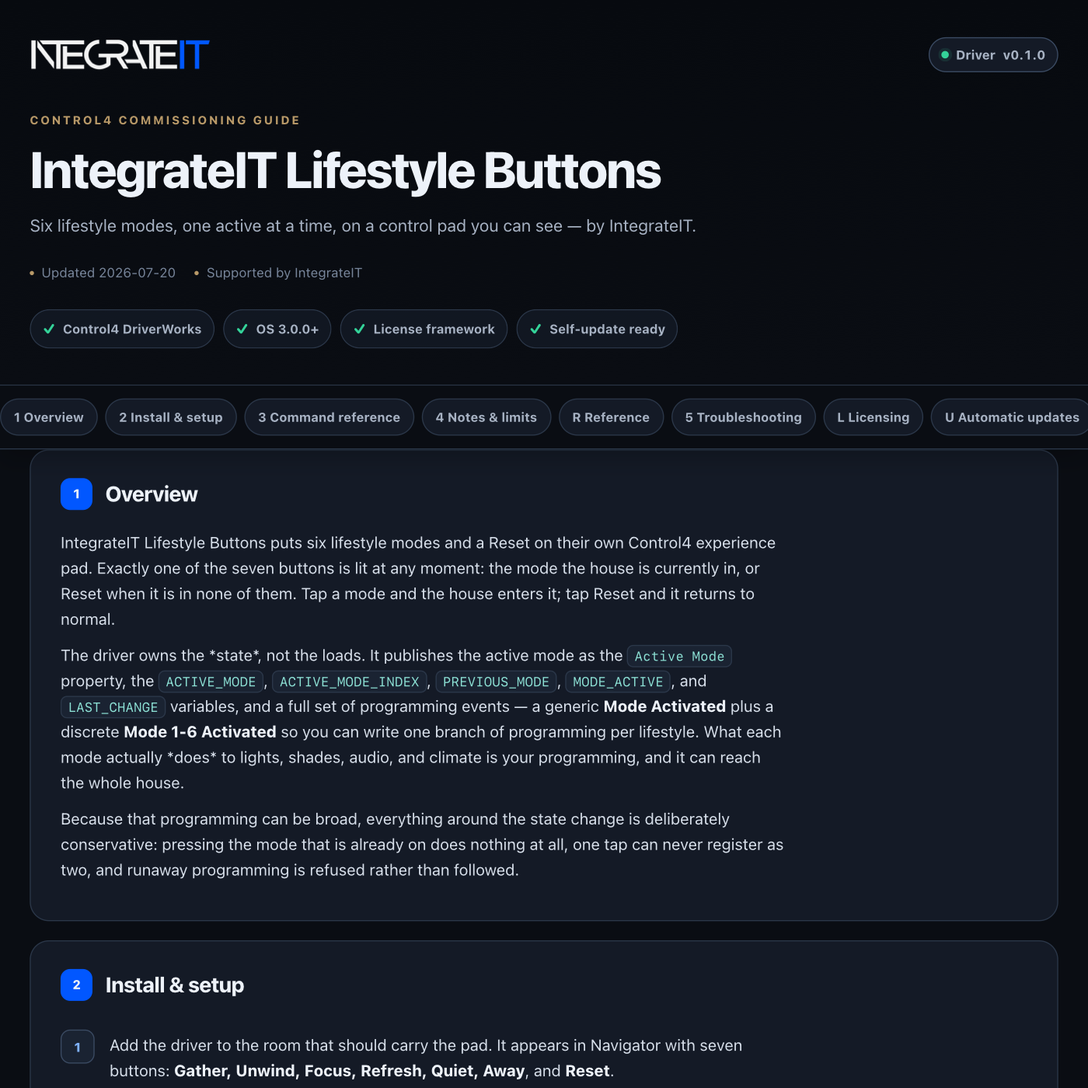
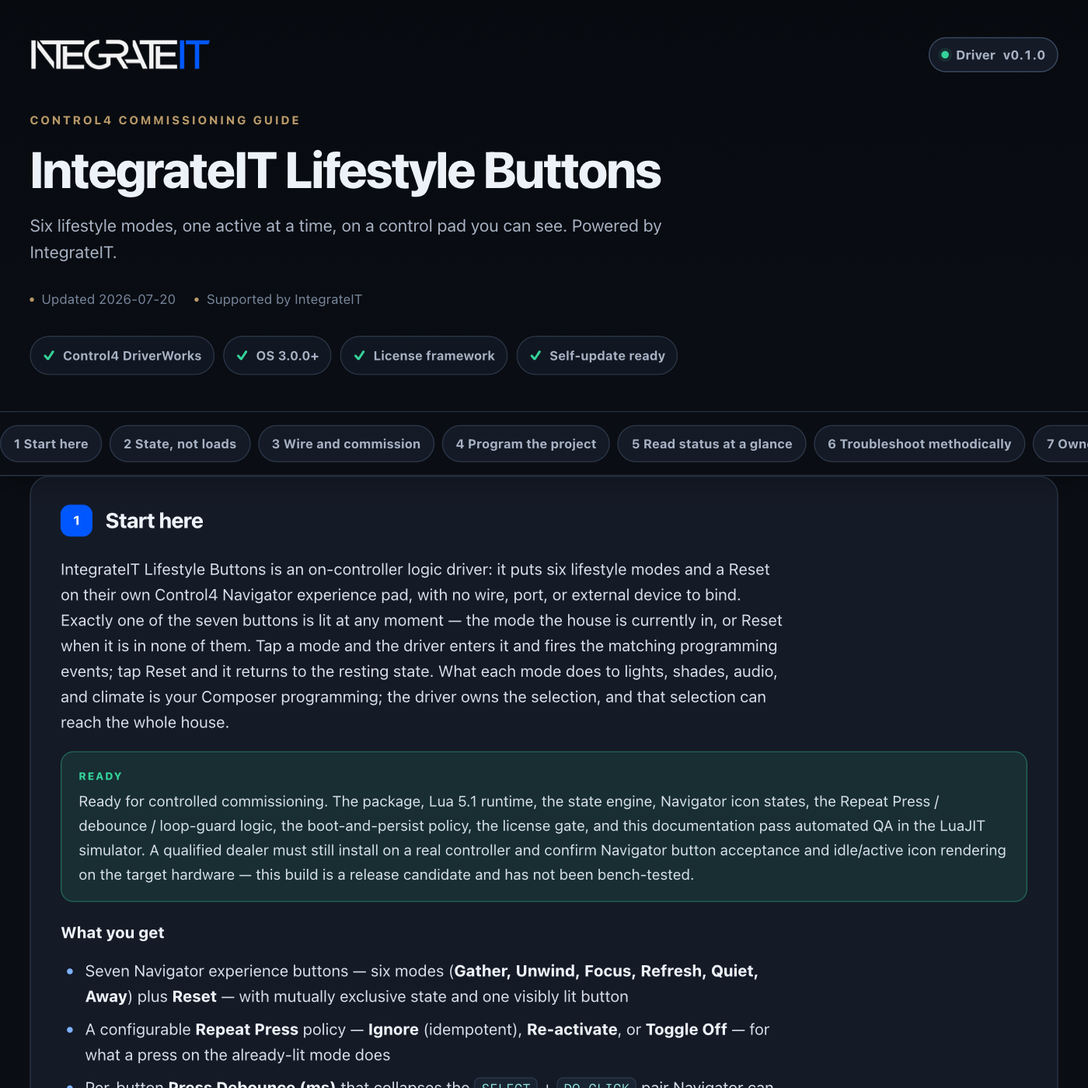
control4: publish driver channel (integrateit_lifestyle_buttons 0.1.1)

Changed region(s): [[0.0, 0.3686, 1.0, 1.0], [0.0307, 0.215, 0.6143, 0.3379], [0.5221, 0.1843, 0.645, 0.215]]

diff --git a/control4/integrateit_lifestyle_buttons/documentation.html b/control4/integrateit_lifestyle_buttons/documentation.html
@@ -179,13 +179,13 @@ td code{white-space:normal}
     <div class="wrap">
       <div class="brandbar">
[1 lines of base64/hex data omitted]
-        <span class="version"><span class="word">Driver</span> v0.1.0</span>
+        <span class="version"><span class="word">Driver</span> v0.1.1</span>
       </div>
       <p class="eyebrow">Control4 commissioning guide</p>
       <h1>IntegrateIT Lifestyle Buttons</h1>
-      <p class="sub">Six lifestyle modes, one active at a time, on a control pad you can see — by IntegrateIT.</p>
+      <p class="sub">Six lifestyle modes, one active at a time, on a control pad you can see. Powered by IntegrateIT.</p>
       <div class="meta">
-        <span>Updated 2026-07-20</span>
+        <span>Updated 2026-07-26</span>
         <span>Supported by IntegrateIT</span>
       </div>
       <div class="readiness" aria-label="Driver capabilities">
@@ -198,58 +198,117 @@ td code{white-space:normal}
   </header>
 
   <div class="toc-wrap">
-    <nav class="toc wrap" aria-label="Documentation sections"><a href="#overview">1 Overview</a><a href="#install">2 Install &amp; setup</a><a href="#commands">3 Command reference</a><a href="#notes">4 Notes &amp; limits</a><a href="#reference">R Reference</a><a href="#troubleshooting">5 Troubleshooting</a><a href="#licensing">L Licensing</a><a href="#updates">U Automatic updates</a><a href="#changelog">V Version history</a></nav>
+    <nav class="toc wrap" aria-label="Documentation sections"><a href="#overview">1 Start here</a><a href="#contract">2 State, not loads</a><a href="#setup">3 Wire and commission</a><a href="#programming">4 Program the project</a><a href="#status">5 Read status at a glance</a><a href="#troubleshooting">6 Troubleshoot methodically</a><a href="#trust">7 Ownership, privacy, and licensing</a><a href="#reference">R Reference</a><a href="#licensing">L Licensing</a><a href="#updates">U Automatic updates</a><a href="#changelog">V Version history</a></nav>
   </div>
 
   <main class="wrap">
     <section class="card" id="overview" data-card="overview">
-  <h2><span class="n">1</span> Overview</h2>
-  <p>IntegrateIT Lifestyle Buttons puts six lifestyle modes and a Reset on their own Control4 experience pad. Exactly one of the seven buttons is lit at any moment: the mode the house is currently in, or Reset when it is in none of them. Tap a mode and the house enters it; tap Reset and it returns to normal.</p>
-  <p>The driver owns the *state*, not the loads. It publishes the active mode as the <code>Active Mode</code> property, the <code>ACTIVE_MODE</code>, <code>ACTIVE_MODE_INDEX</code>, <code>PREVIOUS_MODE</code>, <code>MODE_ACTIVE</code>, and <code>LAST_CHANGE</code> variables, and a full set of programming events — a generic <b>Mode Activated</b> plus a discrete <b>Mode 1-6 Activated</b> so you can write one branch of programming per lifestyle. What each mode actually *does* to lights, shades, audio, and climate is your programming, and it can reach the whole house.</p>
-  <p>Because that programming can be broad, everything around the state change is deliberately conservative: pressing the mode that is already on does nothing at all, one tap can never register as two, and runaway programming is refused rather than followed.</p>
+  <h2><span class="n">1</span> Start here</h2>
+  <p>IntegrateIT Lifestyle Buttons is an on-controller logic driver: it puts six lifestyle modes and a Reset on their own Control4 Navigator experience pad, with no wire, port, or external device to bind. Exactly one of the seven buttons is lit at any moment — the mode the house is currently in, or Reset when it is in none of them. Tap a mode and the driver enters it and fires the matching programming events; tap Reset and it returns to the resting state. What each mode does to lights, shades, audio, and climate is your Composer programming; the driver owns the selection, and that selection can reach the whole house.</p>
+  <div class="note good">Ready for controlled commissioning. The package, Lua 5.1 runtime, the state engine, Navigator icon states, the Repeat Press / debounce / loop-guard logic, the boot-and-persist policy, the license gate, and this documentation pass automated QA in the LuaJIT simulator. A qualified dealer must still install on a real controller and confirm Navigator button acceptance and idle/active icon rendering on the target hardware — this build is a release candidate and has not been bench-tested.</div>
+  <p><b>What you get</b></p>
+  <ul>
+    <li>Seven Navigator experience buttons — six modes (<b>Gather, Unwind, Focus, Refresh, Quiet, Away</b>) plus <b>Reset</b> — with mutually exclusive state and one visibly lit button</li>
+    <li>A configurable <b>Repeat Press</b> policy — <b>Ignore</b> (idempotent), <b>Re-activate</b>, or <b>Toggle Off</b> — for what a press on the already-lit mode does</li>
+    <li>Per-button <b>Press Debounce (ms)</b> that collapses the <code>SELECT</code> + <code>DO_CLICK</code> pair Navigator can send for a single tap</li>
+    <li>Two independent loop guards — re-entrancy refusal and a counting window — that refuse runaway programming with <b>Activation Blocked</b> rather than following it</li>
+    <li>Generic <b>Mode Activated</b> / <b>Mode Deactivated</b> / <b>All Modes Reset</b> events plus discrete <b>Mode 1-6 Activated</b> events for per-lifestyle programming</li>
+    <li><code>ACTIVE_MODE</code>, <code>ACTIVE_MODE_INDEX</code>, <code>PREVIOUS_MODE</code>, <code>MODE_ACTIVE</code>, and <code>LAST_CHANGE</code> variables, and a <b>Boot Mode</b> policy whose state survives a controller restart</li>
+  </ul>
 </section>
 
-<section class="card" id="install" data-card="install">
-  <h2><span class="n">2</span> Install &amp; setup</h2>
+<section class="card" id="contract" data-card="contract">
+  <h2><span class="n">2</span> State, not loads</h2>
+  <p>This driver owns the *selection*, never the loads. It changes no light, shade, thermostat, or audio zone on its own — every physical effect is dealer-written programming hanging off its events, and that programming can have broad, whole-house consequences.</p>
+  <p>It also never invents what the house is doing. There is no feedback path from your loads back into this driver: when a mode activates it fires the event and trusts your programming to carry it out. The lit button and the <code>ACTIVE_MODE</code> variable are authoritative about the driver's *state* — the lifestyle it last selected — not proof that every load obeyed. Anything claiming the driver knows the house physically reached a lifestyle would be faking it.</p>
+  <p>Everything around the state change is therefore deliberately conservative:</p>
+  <ul>
+    <li><b>Activation and reset are separate, explicit paths — nothing is inferred.</b> A mode ends because another mode started, because Reset ran, or because its slot was configured away; each of those fires <b>Mode Deactivated</b> so your programming can clean up after itself.</li>
+    <li><b>Idempotent by default.</b> Under <code>Repeat Press = Ignore</code>, pressing the already-active mode writes no state, fires no activation, and re-runs no programming — it raises <b>Repeat Press Ignored</b> and nothing else, so a scene that takes twenty seconds to settle is never restarted by a leaning finger. The same contract applies to Reset when the house is already at rest.</li>
+    <li><b>Runaway programming is refused, not followed</b> (see the two loop guards under Program the project).</li>
+  </ul>
+  <div class="note warn">Because a mode press can drive lights, HVAC, locks, and away scenes across the whole house, review the programming behind every mode — and the Reset scene — before handover. The driver makes the selection safe to run; it does not make the programming safe.</div>
+</section>
+
+<section class="card" id="setup" data-card="setup">
+  <h2><span class="n">3</span> Wire and commission</h2>
   <ol class="steps">
-    <li>Add the driver to the room that should carry the pad. It appears in Navigator with seven buttons: <b>Gather, Unwind, Focus, Refresh, Quiet, Away</b>, and <b>Reset</b>.</li>
-    <li>Set <code>Modes Enabled</code> to how many lifestyle slots the project actually uses. Slots above that count are refused if pressed.</li>
-    <li>Set <code>Mode 1 Label</code> … <code>Mode 6 Label</code> and <code>Reset Label</code> to the names this household uses. These names appear in Status, in the variables, and in your programming — the Navigator button captions themselves are fixed in the driver package and do not follow the labels.</li>
-    <li>Choose the press semantics: - <code>Repeat Press</code> — <b>Ignore</b> (default) makes a press on the lit button a true no-op; <b>Re-activate</b> re-runs the mode's programming; <b>Toggle Off</b> turns the mode back off. - <code>Press Debounce (ms)</code> — default 400. Leave it on unless you are debugging.</li>
-    <li>Choose the restart behaviour: <code>Boot Mode</code> (<b>Restore Last</b> by default) and <code>Fire Events on Boot</code> (<b>No</b> by default, so a controller restart does not re-run every scene in the house).</li>
-    <li>In Programming, write what each mode should do. React to <b>Mode 1 Activated</b> … <b>Mode 6 Activated</b> for per-mode behaviour, to <b>Mode Activated</b> for anything common to all of them, and to <b>All Modes Reset</b> for the return-to-normal scene.</li>
-    <li>Optional: bind a keypad button or a schedule to the <b>Activate Mode N</b>, <b>Advance to Next Mode</b>, or <b>Reset All Modes</b> actions.</li>
-    <li>Optionally enter a <code>License Key</code> (see Licensing) — the driver runs in Lenient mode without one.</li>
+    <li>Add <b>IntegrateIT Lifestyle Buttons</b> to the room that should carry the pad. Seven experience buttons appear in Navigator — <b>Gather, Unwind, Focus, Refresh, Quiet, Away</b>, and <b>Reset</b>. Make them visible and <b>Refresh Navigators</b> so every later step can be confirmed from a real Navigator.</li>
+    <li>Set <b>Modes Enabled</b> to how many of the six slots the project actually uses. A press on a slot above that count is refused — Status reads <code>not enabled</code> and an <b>Activation Blocked</b> event fires instead of the mode activating.</li>
+    <li>Set <b>Mode 1 Label</b> … <b>Mode 6 Label</b> and <b>Reset Label</b> to this household's names. These rename the mode in Status, the variables, and your programming only — the Navigator button captions are fixed in the driver package and do not follow the labels.</li>
+    <li>Choose the press semantics: <b>Repeat Press</b> (<b>Ignore</b> by default) and <b>Press Debounce (ms)</b> (400 by default — leave it on unless you are debugging).</li>
+    <li>Choose the restart behaviour: <b>Boot Mode</b> (<b>Restore Last</b> by default) and <b>Fire Events on Boot</b> (<b>No</b> by default, so a controller restart does not re-run every scene in the house).</li>
+    <li>Optional: tune <b>Loop Guard Limit</b> (default 8) and <b>Loop Guard Window (s)</b> (default 10), or set the limit to 0 to disable the guard entirely.</li>
+    <li>In Composer Programming, write what each mode should do — react to <b>Mode 1 Activated</b> … <b>Mode 6 Activated</b> per mode, <b>Mode Activated</b> for anything common to all of them, and <b>All Modes Reset</b> for the return-to-normal scene.</li>
+    <li>Optional: enter a <b>License Key</b> — the driver runs in Lenient mode without one.</li>
+    <li><b>Prove it:</b> press <b>Gather</b> (or run <b>Activate Mode 1</b>). Its button lights, Reset goes dark, <b>Active Mode</b> reads <code>Gather</code>, <code>ACTIVE_MODE_INDEX</code> becomes <code>1</code>, and <b>Mode 1 Activated</b> fires. Press <b>Reset</b> and the pad returns to the resting label with Reset lit again.</li>
   </ol>
 </section>
 
-<section class="card" id="commands" data-card="commands">
-  <h2><span class="n">3</span> Command reference</h2>
+<section class="card" id="programming" data-card="programming">
+  <h2><span class="n">4</span> Program the project</h2>
   <table>
     <tr><th>Action</th><th>What it does</th></tr>
-    <tr><td>Activate Mode 1 … 6</td><td>Enter that lifestyle. Deactivates whichever mode was on.</td></tr>
-    <tr><td>Advance to Next Mode</td><td>Move to the next enabled slot, wrapping past the last back to the first. From the resting state it lands on slot 1.</td></tr>
-    <tr><td>Reset All Modes</td><td>Leave every mode; the house returns to the resting state and Reset lights up.</td></tr>
-    <tr><td>Print Configuration</td><td>Print the slots, labels, press policy, loop-guard state, and boot policy to the Lua output window.</td></tr>
+    <tr><td><b>Activate Mode 1 … 6</b></td><td>Enter that lifestyle. Deactivates whichever mode was on.</td></tr>
+    <tr><td><b>Advance to Next Mode</b></td><td>Move to the next enabled slot, wrapping past the last back to the first. From the resting state it lands on slot 1, and it targets mode slots only — never Reset. The one exception: with <b>Modes Enabled</b> = 1 under <b>Repeat Press = Toggle Off</b>, the wrap lands on the already-active slot and toggles the house back to rest.</td></tr>
+    <tr><td><b>Reset All Modes</b></td><td>Leave every mode; the house returns to the resting state and Reset lights up.</td></tr>
+    <tr><td><b>Print Configuration</b></td><td>Print the slots, labels, press policy, loop-guard counters, and boot policy to the Lua output window.</td></tr>
   </table>
-  <p><b>Events:</b> *Mode Activated*, *Mode Deactivated*, *All Modes Reset*, *Repeat Press Ignored*, *Activation Blocked*, and *Mode 1 Activated* … *Mode 6 Activated*. <b>Variables:</b> <code>ACTIVE_MODE</code>, <code>ACTIVE_MODE_INDEX</code> (0 when at rest), <code>PREVIOUS_MODE</code>, <code>MODE_ACTIVE</code>, <code>LAST_CHANGE</code>.</p>
+  <p><b>Events:</b> <b>Mode Activated</b>, <b>Mode Deactivated</b>, <b>All Modes Reset</b>, <b>Repeat Press Ignored</b>, <b>Activation Blocked</b>, and <b>Mode 1 Activated</b> … <b>Mode 6 Activated</b>.</p>
+  <p>Three ways these wire into Composer programming:</p>
+  <ul>
+    <li><b>When Mode 1 Activated fires → run the Gather scene.</b> Write one branch per slot off <b>Mode 1 Activated</b> … <b>Mode 6 Activated</b>: dim the lights, unmute the audio, set the thermostat — whatever that lifestyle means in this house.</li>
+    <li><b>When Mode Activated fires → do the common work.</b> Anything every lifestyle shares (log it, push a notification) hangs off the generic event; read <code>ACTIVE_MODE_INDEX</code> to branch. Pair it with <b>Mode Deactivated</b> and <code>PREVIOUS_MODE</code> to undo the outgoing mode.</li>
+    <li><b>When All Modes Reset fires → restore the everyday baseline.</b> Bind a keypad or a schedule to <b>Reset All Modes</b> for one-touch return-to-normal, or to <b>Advance to Next Mode</b> to cycle the house through its enabled lifestyles from a single button.</li>
+  </ul>
+  <p><b>Loop protection, two independent guards:</b></p>
+  <ul>
+    <li>*Re-entrancy.* Director dispatches driver events synchronously, so programming that reacts to <b>Mode Activated</b> by activating another mode lands while the driver is still inside the first change — the classic runaway. That request is refused, raises <b>Activation Blocked</b>, and never recurses.</li>
+    <li>*Counting window.* <b>Loop Guard Limit</b> activations are allowed inside one <b>Loop Guard Window (s)</b>; the rest of that window is refused with <b>Activation Blocked</b>, and the window then re-opens on its own. The guard counts activations from every source — Navigator, programming, keypads, schedules — so a legitimately busy sequence can trip it. Raise the limit, or set it to 0 to disable.</li>
+  </ul>
+  <p>Control is license-gated. Under Strict enforcement an unlicensed controller changes no mode and returns *before any event* — including the <b>Activation Blocked</b> refusal — so nothing in your programming runs; the only sign is the Status line <code>Unlicensed - control disabled (see License Status)</code>. One path still corrects the driver's own state while unlicensed: reducing <b>Modes Enabled</b> below the active slot clears it back to rest and darkens its button, but withholds <b>Mode Deactivated</b> and <b>All Modes Reset</b>, so a Composer property edit can never run the whole-house programming every control path refuses. The default Lenient mode allows commissioning while <code>License Status</code> carries the reminder.</p>
 </section>
 
-<section class="card" id="notes" data-card="notes">
-  <h2><span class="n">4</span> Notes &amp; limits</h2>
-  <ul>
-    <li><b>Activation and reset are separate, explicit paths.</b> Nothing is inferred. A mode ends because another mode started, because Reset ran, or because its slot was configured away — and each of those fires <b>Mode Deactivated</b> so your programming can clean up.</li>
-    <li><b>Idempotence.</b> Under the default <code>Repeat Press = Ignore</code>, pressing the already-active mode writes no state, fires no activation, and re-runs no programming; it raises <b>Repeat Press Ignored</b> so you can log it if you want to. The same contract applies to Reset when the house is already at rest.</li>
-    <li><b>Debounce.</b> Navigator can deliver a single tap as both <code>SELECT</code> and <code>DO_CLICK</code>, and touchscreens can double-deliver. A per-button window (<code>Press Debounce (ms)</code>) drops the second delivery. This matters most under <code>Repeat Press = Re-activate</code>, where an undebounced double delivery would run the scene twice.</li>
-    <li><b>Loop protection, two independent guards.</b> - *Re-entrancy.* Director dispatches driver events synchronously. Programming that reacts to <b>Mode Activated</b> by activating another mode lands while the driver is still inside the first change — the classic runaway. That request is refused and raises <b>Activation Blocked</b>; it never recurses. - *Counting window.* <code>Loop Guard Limit</code> activations are allowed inside one <code>Loop Guard Window (s)</code>; the rest of that window is refused with <b>Activation Blocked</b>, and the window then re-opens on its own. The guard counts activations from every source — Navigator, programming, keypads, schedules — so a legitimately busy sequence can trip it. Raise the limit, or set it to 0 to disable.</li>
-    <li><b>Visible active state.</b> The lit button is authoritative and is re-pushed on every change, including after a controller restart, so Navigator never disagrees with the variables.</li>
-    <li><b>Persistence.</b> The active mode is stored in the driver's persistent data and survives a controller restart. <code>Boot Mode = Restore Last</code> reinstates it, and with the default <code>Fire Events on Boot = No</code> it is reinstated *silently* — the state comes back without every scene re-firing. Set it to <b>Yes</b> only if you want a restart to re-run the mode's programming. A persisted slot that has since been configured away restores to the resting state instead.</li>
-    <li><b>Reconfiguring live is safe.</b> Renaming a mode republishes the label without changing state. Reducing <code>Modes Enabled</code> below the active slot returns the house to the resting state with the normal deactivation events rather than leaving a disabled mode showing as on. Editing the loop-guard numbers starts a fresh window.</li>
-    <li><b>This driver switches nothing by itself.</b> Every physical effect is dealer-written programming hanging off these events, and that programming can have broad, whole-house consequences. Review it before handover.</li>
-  </ul>
+<section class="card" id="status" data-card="status">
+  <h2><span class="n">5</span> Read status at a glance</h2>
+  <table>
+    <tr><th>Surface</th><th>Type</th><th>What it holds</th></tr>
+    <tr><td><b>Active Mode</b></td><td>property</td><td>The active mode's label, or the <b>Reset Label</b> when the house is at rest.</td></tr>
+    <tr><td><b>Last Change</b></td><td>property</td><td>The last change as a sentence: label, source, and timestamp. The sources are <code>Navigator</code>, <code>Programming</code>, <code>boot</code>, <code>configuration</code>, and <code>Modes Enabled reduced</code>; a Toggle Off press carries the press source with a <code> (toggle off)</code> suffix.</td></tr>
+    <tr><td><code>ACTIVE_MODE</code></td><td>STRING var</td><td>The same label as <b>Active Mode</b>.</td></tr>
+    <tr><td><code>ACTIVE_MODE_INDEX</code></td><td>NUMBER var</td><td><code>0</code> at rest, <code>1</code>–<code>6</code> for the active slot. The stable value to branch on — it does not change when a mode is renamed.</td></tr>
+    <tr><td><code>PREVIOUS_MODE</code></td><td>STRING var</td><td>Label of the slot active before the last change (the <b>Reset Label</b> when that was rest).</td></tr>
+    <tr><td><code>MODE_ACTIVE</code></td><td>BOOL var</td><td><code>1</code> when any mode is active, <code>0</code> at rest — the driver writes the BOOL as 1/0, which is what Composer compares against.</td></tr>
+    <tr><td><code>LAST_CHANGE</code></td><td>STRING var</td><td>The timestamp of the last change only — the descriptive sentence lives on the <b>Last Change</b> property, not here.</td></tr>
+  </table>
+  <p>Program your logic off <code>ACTIVE_MODE_INDEX</code> (numeric, stable) rather than the label, which the household can rename at will; <code>MODE_ACTIVE</code> is the clean "is any lifestyle on" test.</p>
+  <p>The lit button is authoritative and is re-pushed on every change, including after a controller restart, so Navigator never disagrees with the variables. The active mode is stored in the driver's persistent data and survives a restart: <b>Boot Mode = Restore Last</b> reinstates it, and with the default <b>Fire Events on Boot = No</b> it comes back *silently* — the state returns without every scene re-firing. A persisted slot that has since been configured above <b>Modes Enabled</b> restores to the resting state instead. If an activation throws mid-publish, Status reads <b>Activation error</b> rather than a false success line.</p>
+</section>
+
+<section class="card" id="troubleshooting" data-card="troubleshooting">
+  <h2><span class="n">6</span> Troubleshoot methodically</h2>
+  <table>
+    <tr><th>Symptom</th><th>Likely cause</th><th>Fix</th></tr>
+    <tr><td>Nothing responds to any press</td><td>Strict enforcement on an unlicensed controller</td><td>Check <code>License Status</code>; Lenient mode keeps control enabled without a key.</td></tr>
+    <tr><td>A press does nothing and Status says "not enabled"</td><td>The slot is above <b>Modes Enabled</b></td><td>Raise <b>Modes Enabled</b> to cover every slot the project uses.</td></tr>
+    <tr><td>Status says "Loop guard tripped" and modes stop changing</td><td>More activations than <b>Loop Guard Limit</b> inside one window — often programming that activates a mode in response to a mode event</td><td>Fix the programming loop, or raise <b>Loop Guard Limit</b>. Set it to 0 to disable the guard.</td></tr>
+    <tr><td>Status says "re-entrant activation"</td><td>Programming activated a mode from inside a mode event</td><td>Move that activation onto a delay, or key it off a different trigger.</td></tr>
+    <tr><td>The scene runs twice on one tap</td><td><b>Repeat Press = Re-activate</b> with <b>Press Debounce (ms)</b> set to 0</td><td>Restore a debounce of 250–500 ms.</td></tr>
+    <tr><td>Every scene re-fires after a controller restart</td><td><b>Fire Events on Boot = Yes</b></td><td>Set it to <b>No</b> to restore the mode silently.</td></tr>
+    <tr><td>The Navigator caption does not match the label I set</td><td>Captions come from the driver package; <b>Mode N Label</b> renames the mode in Status, variables, and events only</td><td>Use the labels for programming and reporting; the captions are fixed.</td></tr>
+    <tr><td>The lit button and the variables disagree</td><td>Stale Navigator cache</td><td>Reload Navigators; the driver re-pushes the icon state on every change and on boot.</td></tr>
+  </table>
+  <div class="note">Turn on <b>Debug Mode → Print</b> and run <b>Print Configuration</b> to dump the live slots, labels, press policy, and loop-guard counters to the Lua output window. If a symptom survives every check above, capture that output and send it to support@integrateit.tech · (913) 804-7575.</div>
+</section>
+
+<section class="card" id="trust" data-card="trust">
+  <h2><span class="n">7</span> Ownership, privacy, and licensing</h2>
+  <p>This package is an original IntegrateIT implementation built on documented Control4 uibutton-proxy, variable, and programming contracts. It bundles no other vendor's runtime, source code, brand assets, trial system, or license. Driver engineering, Control4 integration, documentation, visual design, QA, licensing, updates, and support are provided by IntegrateIT.</p>
+  <p>The driver drives no external device and binds no port; it sends no mode state, customer identity, project identity, or Control4 credentials to any device vendor. Mode state lives only in Control4 variables, the read-only properties, and the driver's persistent data. <b>Print Configuration</b> never prints the license key. The shared IntegrateIT license and update services use the controller identity, driver slug, version, configured license key, and update channel as documented in the reference below.</p>
+  <p>Lenient mode allows commissioning without an activated key and keeps <code>License Status</code> visible. Strict mode blocks every lifestyle control path — activate, reset, and advance — until the Ops Portal has minted and validated a key for that controller. Installing this package does not itself mint or activate a controller license.</p>
 <section class="card" id="reference" data-card="reference">
   <h2><span class="n">R</span> Reference</h2>
-  <p>Generated from the driver manifest at build time — always matches this build (v0.1.0).</p>
+  <p>Generated from the driver manifest at build time — always matches this build (v0.1.1).</p>
   <h3>Properties</h3>
   <table>
     <tr><th>Property</th><th>Type</th><th>Default</th><th>Description</th></tr>
@@ -320,22 +379,6 @@ td code{white-space:normal}
   </table>
 </section>
 </section>
-
-<section class="card" id="troubleshooting" data-card="troubleshooting">
-  <h2><span class="n">5</span> Troubleshooting</h2>
-  <table>
-    <tr><th>Symptom</th><th>Likely cause</th><th>Fix</th></tr>
-    <tr><td>A button press does nothing and Status says "not enabled"</td><td>The slot is above <code>Modes Enabled</code></td><td>Raise <code>Modes Enabled</code> to cover every slot the project uses.</td></tr>
-    <tr><td>Status says "Loop guard tripped" and modes stop changing</td><td>More activations than <code>Loop Guard Limit</code> inside one window — often programming that activates a mode in response to a mode event</td><td>Fix the programming loop, or raise <code>Loop Guard Limit</code>. Set it to 0 to disable the guard.</td></tr>
-    <tr><td>Status says "re-entrant activation"</td><td>Programming activated a mode from inside a mode event</td><td>Move that activation onto a delay, or key it off a different trigger.</td></tr>
-    <tr><td>The scene runs twice on one tap</td><td><code>Repeat Press = Re-activate</code> with <code>Press Debounce (ms)</code> set to 0</td><td>Restore a debounce of 250-500 ms.</td></tr>
-    <tr><td>Every scene re-fires after a controller restart</td><td><code>Fire Events on Boot = Yes</code></td><td>Set it to <b>No</b> to restore the mode silently.</td></tr>
-    <tr><td>The Navigator caption does not match the label I set</td><td>Captions come from the driver package; <code>Mode N Label</code> renames the mode in Status, variables, and events only</td><td>Use the labels for programming and reporting; the captions are fixed.</td></tr>
-    <tr><td>The lit button and the variables disagree</td><td>Stale Navigator cache</td><td>Reload Navigators; the driver re-pushes the icon state on every change and on boot.</td></tr>
-    <tr><td>Nothing happens at all</td><td>Strict enforcement + unlicensed</td><td>Check <code>License Status</code>; Lenient mode keeps control enabled without a key.</td></tr>
-  </table>
-  <div class="note">Turn on <code>Debug Mode → Print</code> and run <b>Print Configuration</b> to dump the live slots, labels, press policy, and loop-guard counters to the Lua output window.</div>
-</section>
 <section class="card" id="licensing" data-card="licensing">
   <h2><span class="n">L</span> Licensing</h2>
   <p>This driver is licensed <b>per controller</b>. Each license key locks to one controller's
@@ -383,7 +426,9 @@ td code{white-space:normal}
     <section class="card" id="changelog" data-card="changelog">
   <h2><span class="n">V</span> Version history</h2>
   <div class="chg">
-    <div class="rel"><b>v0.1.0</b> <span class="pill green">current</span><span class="d">2026-07-20</span>
+    <div class="rel"><b>v0.1.1</b> <span class="pill green">current</span><span class="d">2026-07-26</span>
+      <ul><li>Documentation rebuilt to the IntegrateIT commissioning-guide standard: uniform sections, honest contracts, verified claim-by-claim against the code.</li></ul></div>
+    <div class="rel"><b>v0.1.0</b><span class="d">2026-07-20</span>
       <ul><li>First cut: a six-slot lifestyle mode selector on its own Navigator experience pad, plus a Reset button, with exactly one button lit at a time.</li><li>Explicit activation and reset paths, a configurable Repeat Press policy (Ignore / Re-activate / Toggle Off), and a per-button press debounce that collapses the SELECT + DO_CLICK pair one tap can produce.</li><li>Two independent loop guards: a re-entrancy refusal for activations raised from inside our own event dispatch, and a counting window that refuses runaway activations from any source. Both raise Activation Blocked.</li><li>Generic Mode Activated / Mode Deactivated / All Modes Reset / Repeat Press Ignored / Activation Blocked events plus discrete Mode 1-6 Activated events; ACTIVE_MODE, ACTIVE_MODE_INDEX, PREVIOUS_MODE, MODE_ACTIVE, and LAST_CHANGE variables.</li><li>Active mode persists across a controller restart with a Boot Mode policy of None / Restore Last / a fixed slot, restored silently unless Fire Events on Boot is set to Yes.</li><li>Original neutral icon set (seven glyphs, one colour per mode) generated from the declarative icons spec; no themed or traced artwork.</li><li>Adversarial review fixes before first release:</li><li>A boot that lands at rest no longer fires All Modes Reset under Fire Events on Boot = Yes. Nothing had been active, so it was a bind-time snapshot rather than a transition, and it ran the dealer's whole-house Reset programming on every controller restart.</li><li>Shrinking Modes Enabled under the active mode now checks the license gate before firing the deactivation events. The state correction still happens; only the whole-house events are withheld, so a Composer property edit can no longer run programming that Strict enforcement otherwise refuses.</li><li>applyState returns the real outcome instead of an unconditional true, so a throw mid-publish reports "Activation error" rather than putting a success line on Status for an activation whose icons never refreshed and whose events never fired.</li><li>A tripped loop guard stops counting its own refusals, so the "N activations in the window" Status stays at the number that actually ran.</li><li>Restore Last type-guards the persisted blob, and OnDeviceInit clears the press-debounce table, so a corrupt persist or a reload whose timers were cancelled before their callbacks ran cannot leave the driver dead or its buttons deaf.</li></ul></div>
   </div>
 </section>

diff --git a/control4/integrateit_lifestyle_buttons/CHANGELOG.md b/control4/integrateit_lifestyle_buttons/CHANGELOG.md
@@ -1,5 +1,8 @@
 # Changelog — IntegrateIT Lifestyle Buttons
 
+## [0.1.1] - 2026-07-26
+- Documentation rebuilt to the IntegrateIT commissioning-guide standard: uniform sections, honest contracts, verified claim-by-claim against the code.
+
 ## [0.1.0] - 2026-07-20
 - First cut: a six-slot lifestyle mode selector on its own Navigator experience pad, plus a Reset button, with exactly one button lit at a time.
 - Explicit activation and reset paths, a configurable Repeat Press policy (Ignore / Re-activate / Toggle Off), and a per-button press debounce that collapses the SELECT + DO_CLICK pair one tap can produce.
